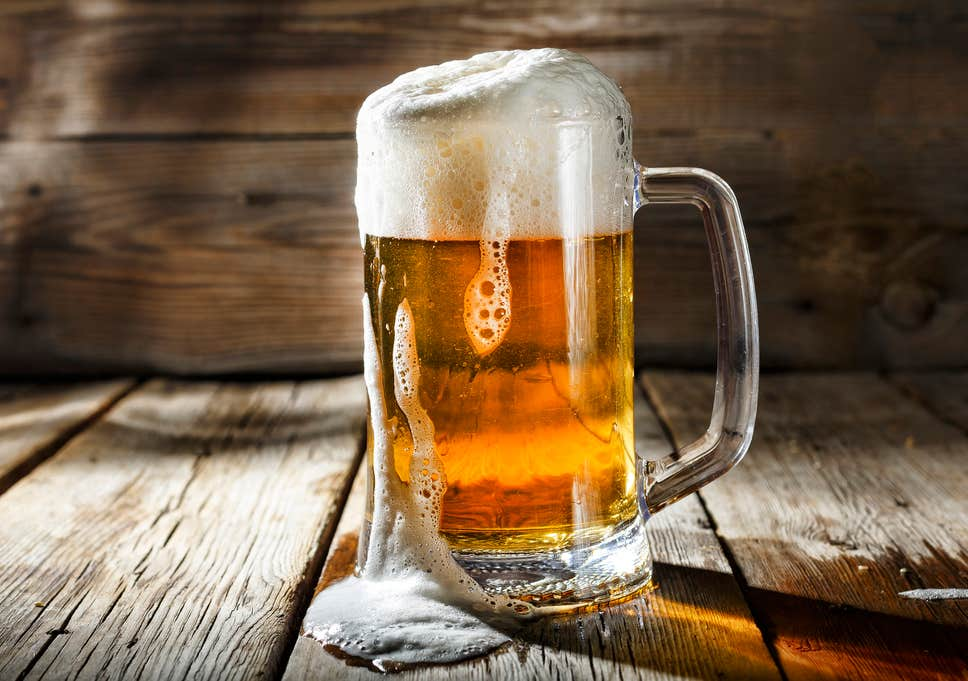
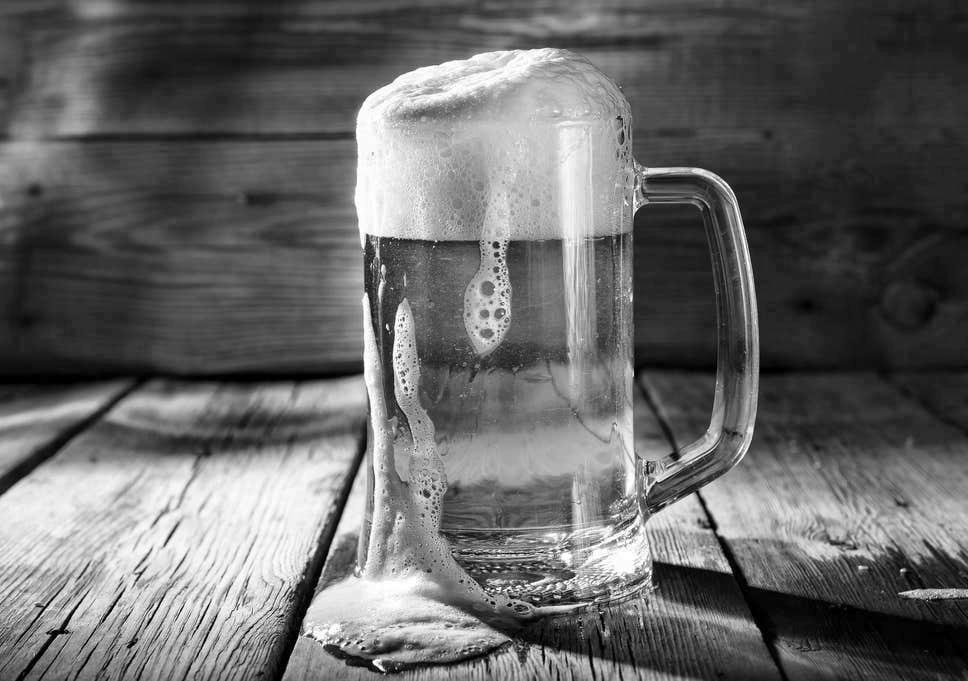
push

diff --git a/src/Program/Program.cs b/src/Program/Program.cs
@@ -8,6 +8,34 @@ namespace CompAndDel
     {
         static void Main(string[] args)
         {
+            PictureProvider provider1 = new PictureProvider();
+            IPicture picture = provider1.GetPicture("beer.jpg");
+            PipeNull pipeNull= new PipeNull();
+            FilterGreyscale filter2= new FilterGreyscale();
+            FilterNegative filter1= new FilterNegative();
+
+            PipeSerial pipeSerial2= new PipeSerial(filter2,pipeNull);
+            PipeSerial pipeSerial1= new PipeSerial(filter1,pipeSerial2);
+            pipeSerial1.Send(picture);
+
+            IPicture image =pipeSerial1.Send(picture);
+            pipeNull.Send(image);
+
+            PictureProvider provider2 = new PictureProvider();
+            provider2.SavePicture(image, "beer.jpg");
+
+
+
+            PictureProvider provider3 = new PictureProvider();
+            IPicture picture2 = provider3.GetPicture("niño.jpg");
+
+            PipeNull pipeNull2= new PipeNull();
+
+            PipeSerial pipeSerial4= new PipeSerial(filter2,pipeNull2);
+            //GUARDO IMAGEN CON EL FILTRO SAVEIMAGE (a saber como implementarlo)
+            PipeSerial pipeSerial3= new PipeSerial(filter2,pipeSerial4);
+
+
         }
     }
 }

diff --git a/src/Library/Filters/TwitterFilter.cs b/src/Library/Filters/TwitterFilter.cs
@@ -1,0 +1,15 @@
+using System.Security.Cryptography;
+using System;
+using System.Text;
+using System.Threading.Tasks;
+using System.Collections.Generic;
+using System.Net.Http;
+using System.Linq;
+using System.Net.Http.Headers;
+using Newtonsoft.Json.Linq;
+using CompAndDel;
+
+public class TwitterFilter
+{
+    
+}

diff --git a/src/Library/Filters/SaveImage.cs b/src/Library/Filters/SaveImage.cs
@@ -1,0 +1,14 @@
+using System.Drawing;
+using SixLabors.ImageSharp;
+using SixLabors.ImageSharp.PixelFormats;
+
+namespace CompAndDel
+{
+    public class SaveImage
+    {
+        public IPicture SaveImage(IPicture picture, string path)
+        {
+            
+        }  
+    }
+}
